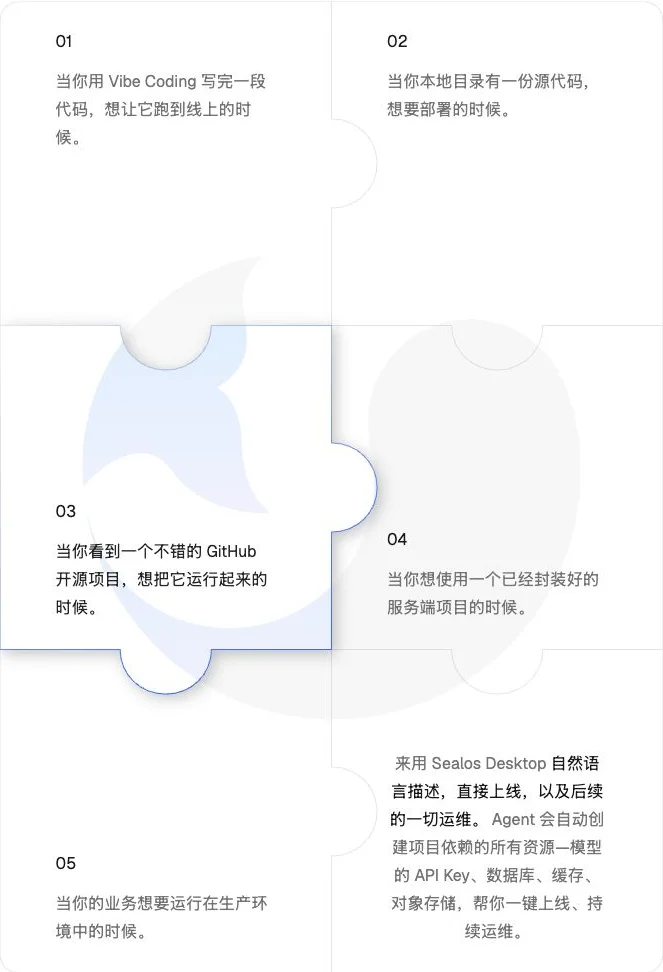
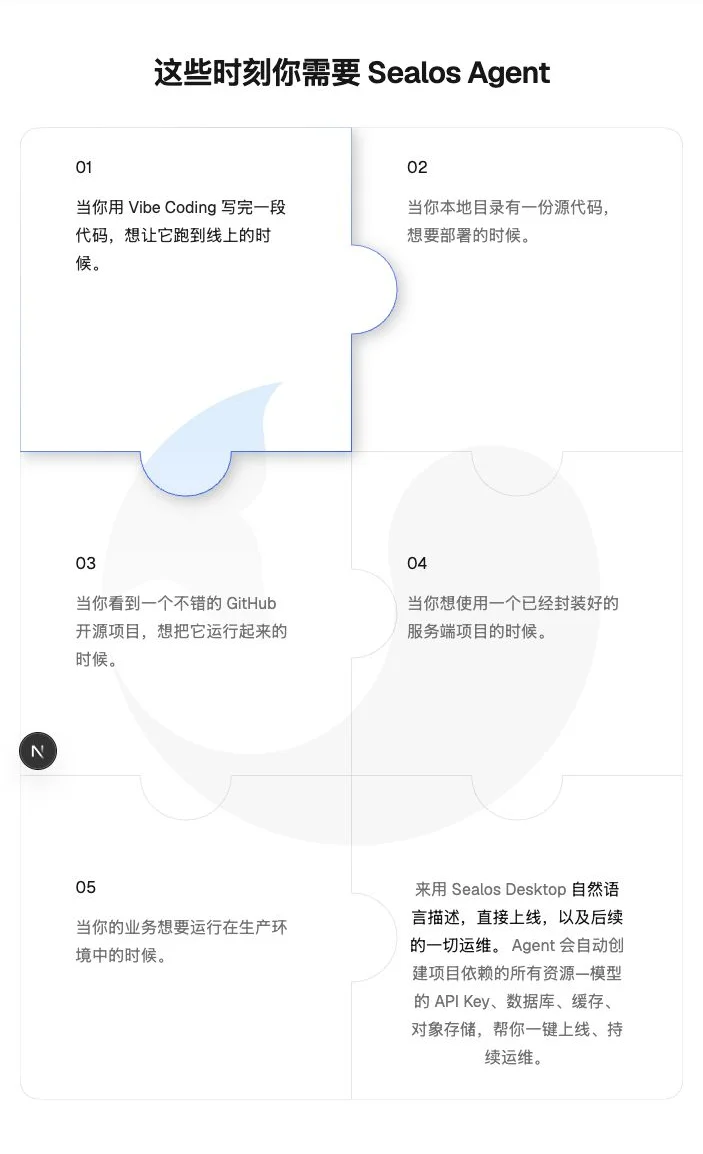
fix(download): rename puzzle section heading to Sealos Agent

diff --git a/app/[locale]/(landing)/download/sections/DownloadContent.tsx b/app/[locale]/(landing)/download/sections/DownloadContent.tsx
@@ -105,15 +105,7 @@ export async function DownloadContent() {
 			</section>
 
 			<section className={cn(styles['section'], styles['whiteSection'], styles['scenariosSection'])}>
-				<SectionTitle
-					title={
-						<>
-							这些时刻
-							<br />
-							你需要 Sealos Desktop
-						</>
-					}
-				/>
+				<SectionTitle title='这些时刻你需要 Sealos Agent' />
 				<div className={styles['scenarios']}>
 					<MobileScenarioPuzzle />
 					{puzzleHoverStates.map((src, index) => (
